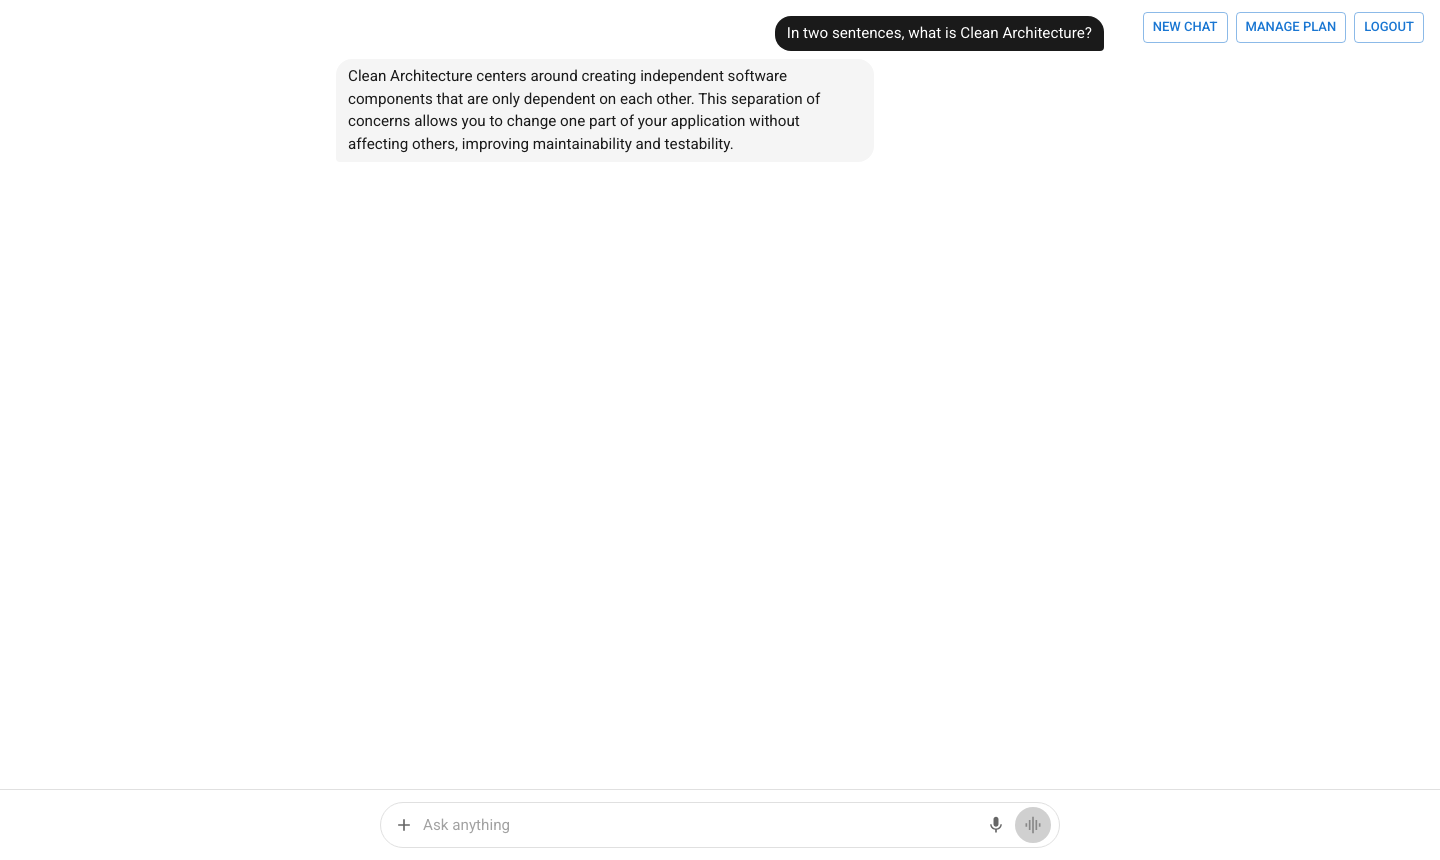
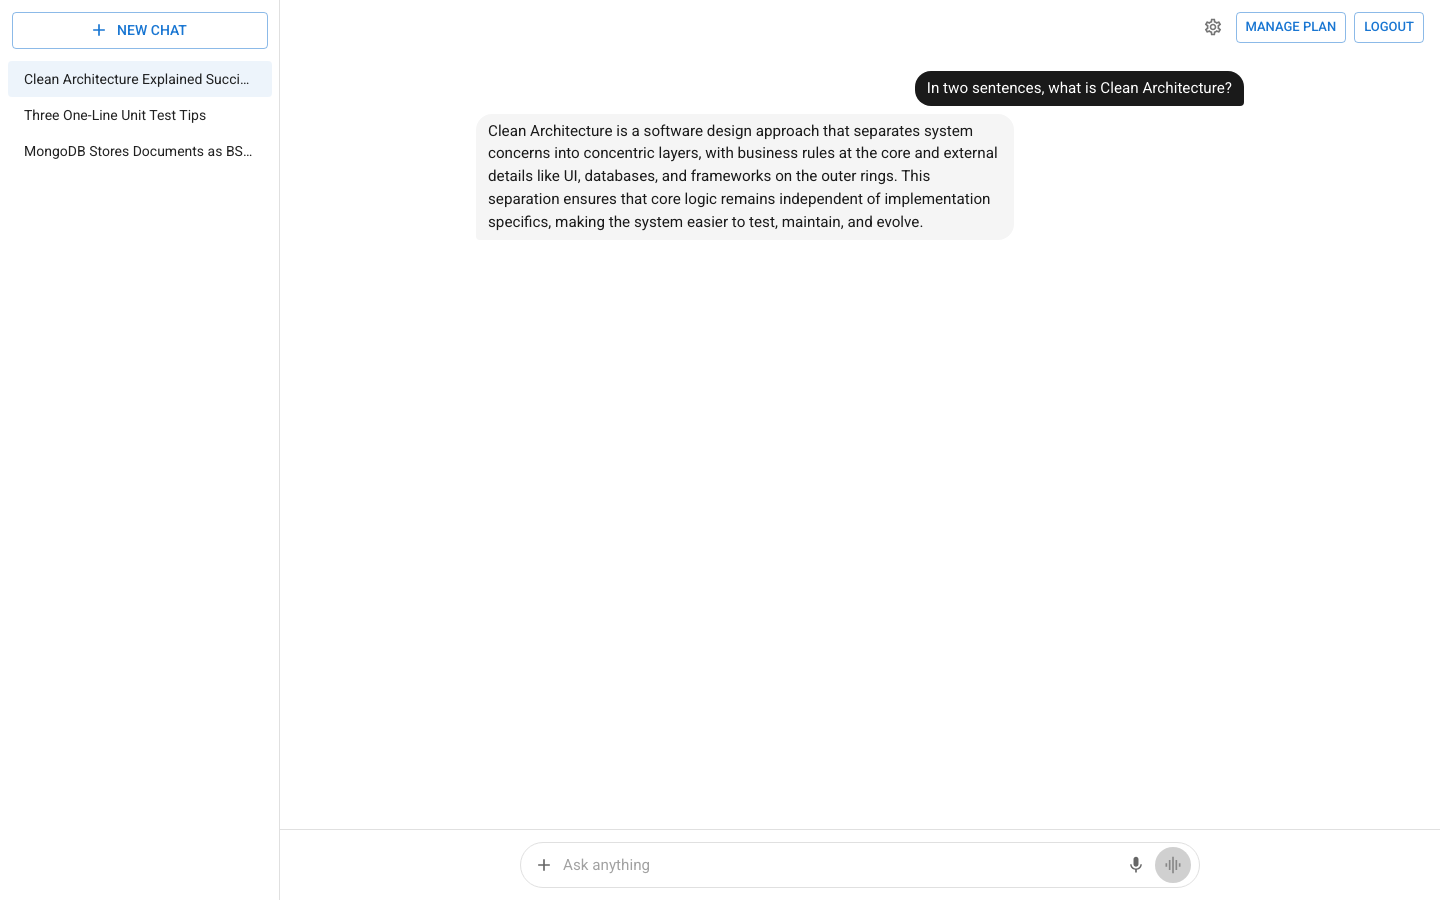
docs: Link the live demo and explain how the app is built

diff --git a/README.md b/README.md
@@ -10,7 +10,9 @@ A ChatGPT-style chat application built end-to-end with Clean Architecture, TDD, 
 [![CI](https://github.com/asifarshadullah/chatapp/actions/workflows/ci.yml/badge.svg?branch=main)](https://github.com/asifarshadullah/chatapp/actions/workflows/ci.yml)
 ![License](https://img.shields.io/badge/license-MIT-blue)
 
-![ChatApp chat](docs/images/chat.png)
+**[Live demo](https://chatapp-2uzj.onrender.com)** — register with any email and chat with `gpt-oss-120b` on Groq. It runs on Render's free tier, so the first visit after a quiet spell can take about a minute to wake up.
+
+![ChatApp: saved conversations beside a streamed reply](docs/images/chat.png)
 
 ---
 
@@ -122,7 +124,8 @@ sequenceDiagram
 | Auth | JWT bearer tokens + Google OAuth 2.0 |
 | Authorization | ASP.NET Core policies + custom `IPermissionService` with memory cache |
 | Testing | xUnit, FluentAssertions, Vitest, React Testing Library, Playwright |
-| Infrastructure | Docker Compose (MongoDB 7 + Mongo Express) |
+| Infrastructure | Docker (one image for UI and API), Docker Compose for local MongoDB |
+| Deployment | GitHub Actions → GitHub Container Registry → Render, with MongoDB Atlas |
 
 ---
 
@@ -262,7 +265,7 @@ dotnet test backend/ChatApp.sln
 
 # Frontend (Vitest + React Testing Library)
 cd frontend/chat-ui
-npm test
+npm run test:run
 
 # E2E (Playwright — Chromium)
 cd e2e/playwright
@@ -297,11 +300,35 @@ Longer write-ups live in [docs/architecture/](docs/architecture/) — the trade-
 
 ---
 
+## How it's built
+
+Every change starts as a GitHub issue. Anything beyond a small fix is planned with [OpenSpec](https://github.com/Fission-AI/OpenSpec) before code is written: a proposal, a design and spec scenarios, reviewed first and then archived with the change, so [`openspec/specs/`](openspec/specs/) describes what the app does today. Each task starts as a failing test. A merged issue moves to a `qa` label and is closed only once the behaviour has been checked by hand.
+
+The code is written with AI assistance, using Claude Code. Its working rules are in [`CLAUDE.md`](CLAUDE.md): I review every proposal and diff, approve every commit, and every change passes the full test suites before it merges.
+
+---
+
+## Known limitations
+
+- The live demo offers only Groq's free tier, about 100 messages a day shared by all users. Each user may send 50 messages a day.
+- Plan upgrades do not work on the live demo yet ([#30](https://github.com/asifarshadullah/chatapp/issues/30)), and Google sign-in is set up only for local runs.
+- A reload while a reply is streaming keeps what was produced but stops the rest ([#27](https://github.com/asifarshadullah/chatapp/issues/27)).
+
+## Roadmap
+
+- [#27](https://github.com/asifarshadullah/chatapp/issues/27) Generate replies in the background, so they survive a reload
+- [#18](https://github.com/asifarshadullah/chatapp/issues/18) Retrieval over uploaded documents, with citations, and tool calling
+- [#19](https://github.com/asifarshadullah/chatapp/issues/19) Observability with OpenTelemetry, Prometheus and Grafana
+- [#20](https://github.com/asifarshadullah/chatapp/issues/20) Several instances behind a load balancer, measured with load tests
+- [#22](https://github.com/asifarshadullah/chatapp/issues/22) A rate limiter as a separate Go service
+
+---
+
 ## Author
 
 Built by **Asif Md Arshadullah**
 
-- GitHub: [@asif-arshadullah](https://github.com/asif-arshadullah)
+- GitHub: [@asifarshadullah](https://github.com/asifarshadullah)
 - LinkedIn: [asif-arshadullah](https://www.linkedin.com/in/asif-arshadullah)
 
 ---
